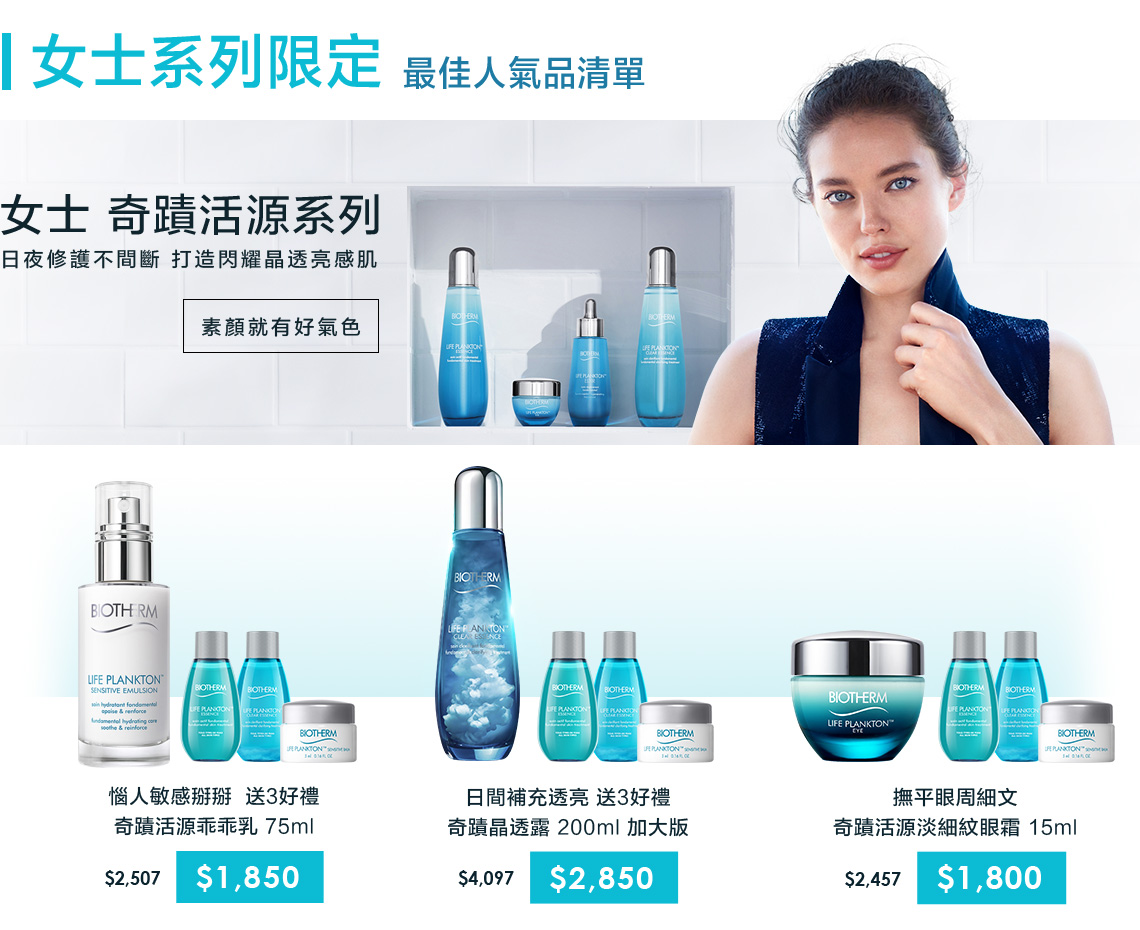
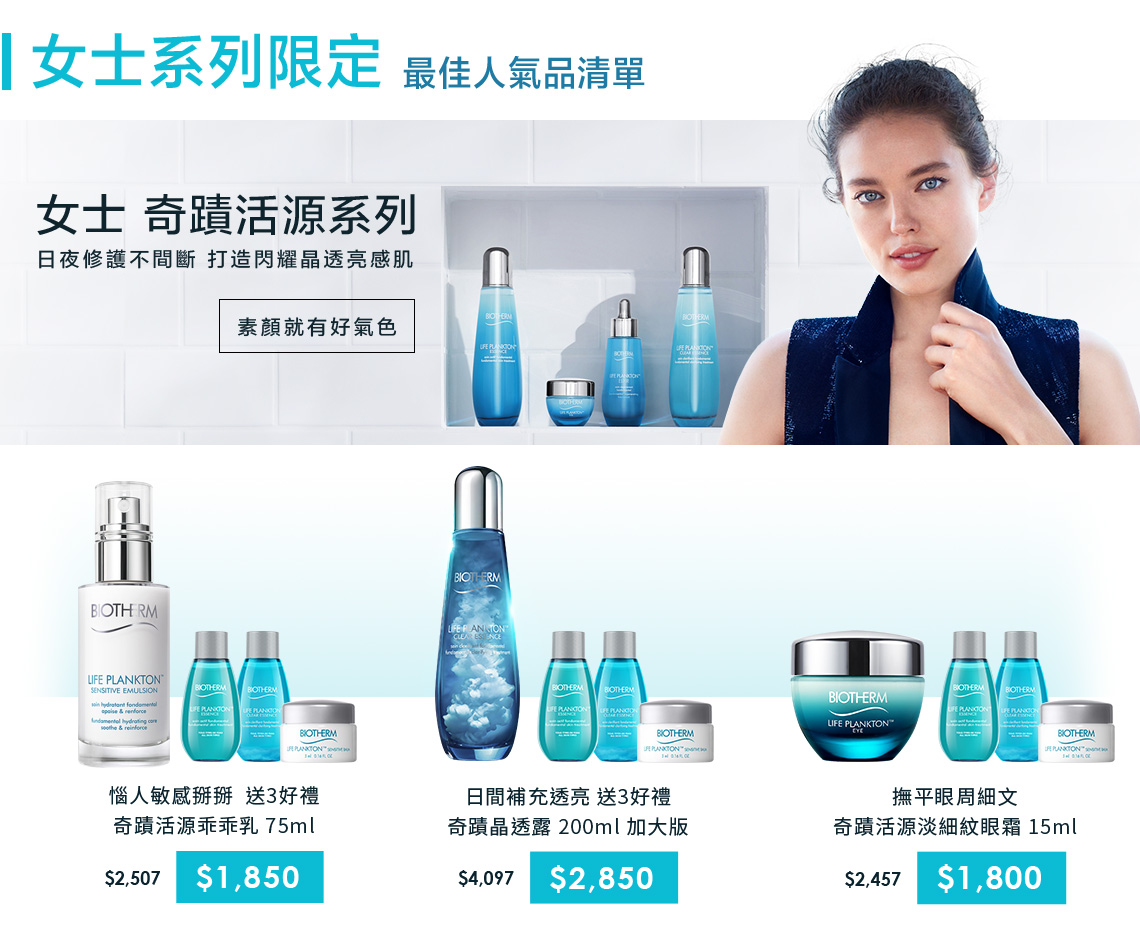
190614

diff --git a/190614/index.html b/190614/index.html
@@ -42,22 +42,22 @@
         </tr>
         <tr>
             <td>
-                <a href="https://reurl.cc/LgXXx" target="_brank"><img src="https://kai-kung.github.io/biotherm-yahoo/190603/index-03.jpg" width="1140" height="1773"></a>
+                <a href="https://reurl.cc/6MLLk" target="_brank"><img src="0614-06.jpg" width="1140" height="930"></a>
             </td>
         </tr>
         <tr>
             <td>
-                <a href="https://reurl.cc/6MLLk" target="_brank"><img src="https://kai-kung.github.io/biotherm-yahoo/190603/index-04.jpg" width="1140" height="400"></a>
+                <a href="https://reurl.cc/6MLLk" target="_brank"><img src="0614-07.jpg" width="1140" height="500"></a>
             </td>
         </tr>
         <tr>
             <td>
-                <a href="https://reurl.cc/aggr4" target="_brank"><img src="https://kai-kung.github.io/biotherm-yahoo/190603/index-05.jpg" width="1140" height="764"></a>
+                <a href="https://reurl.cc/aggr4" target="_brank"><img src="0614-08.jpg" width="1140" height="675"></a>
             </td>
         </tr>
         <tr>
             <td>
-                <a href="https://reurl.cc/7Njjk" target="_brank"><img src="https://kai-kung.github.io/biotherm-yahoo/190603/index-06.jpg" width="1140" height="1428"></a>
+                <a href="https://reurl.cc/7Njjk" target="_brank"><img src="0614-09.jpg" width="1140" height="1430"></a>
             </td>
         </tr>
         <tr>
